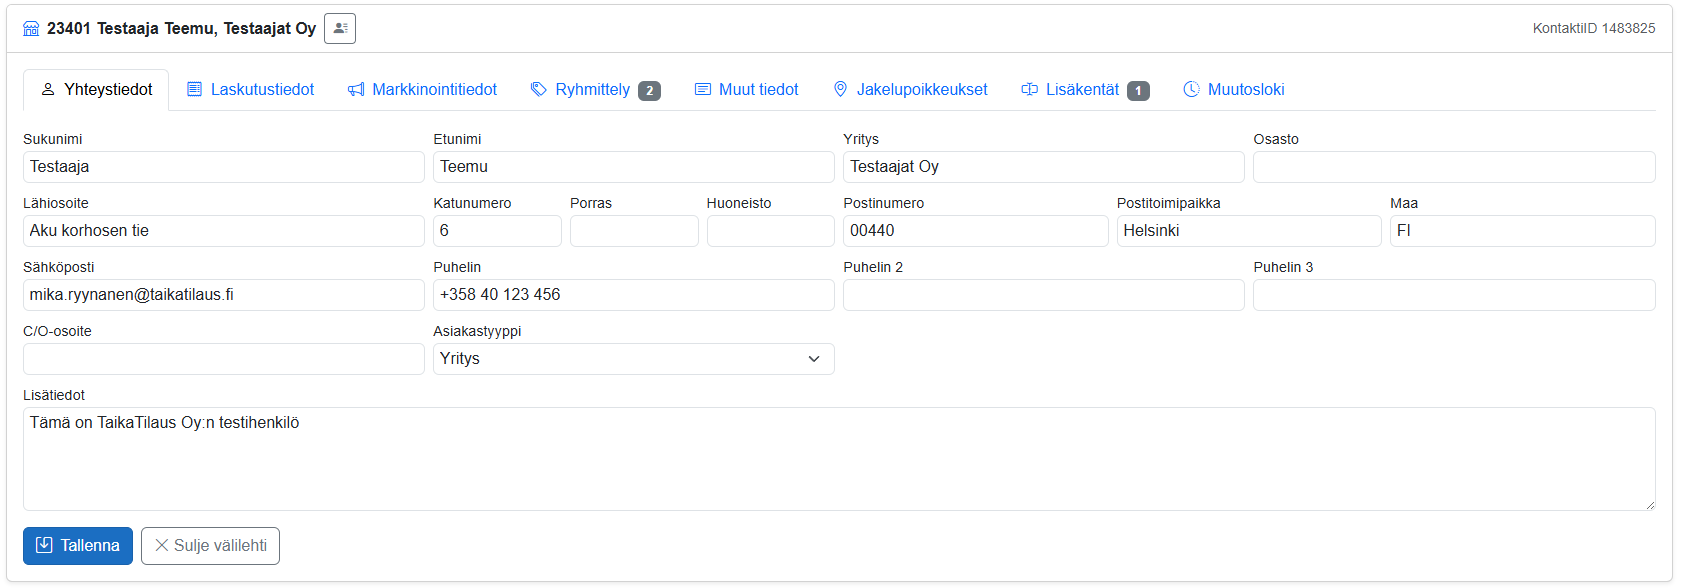
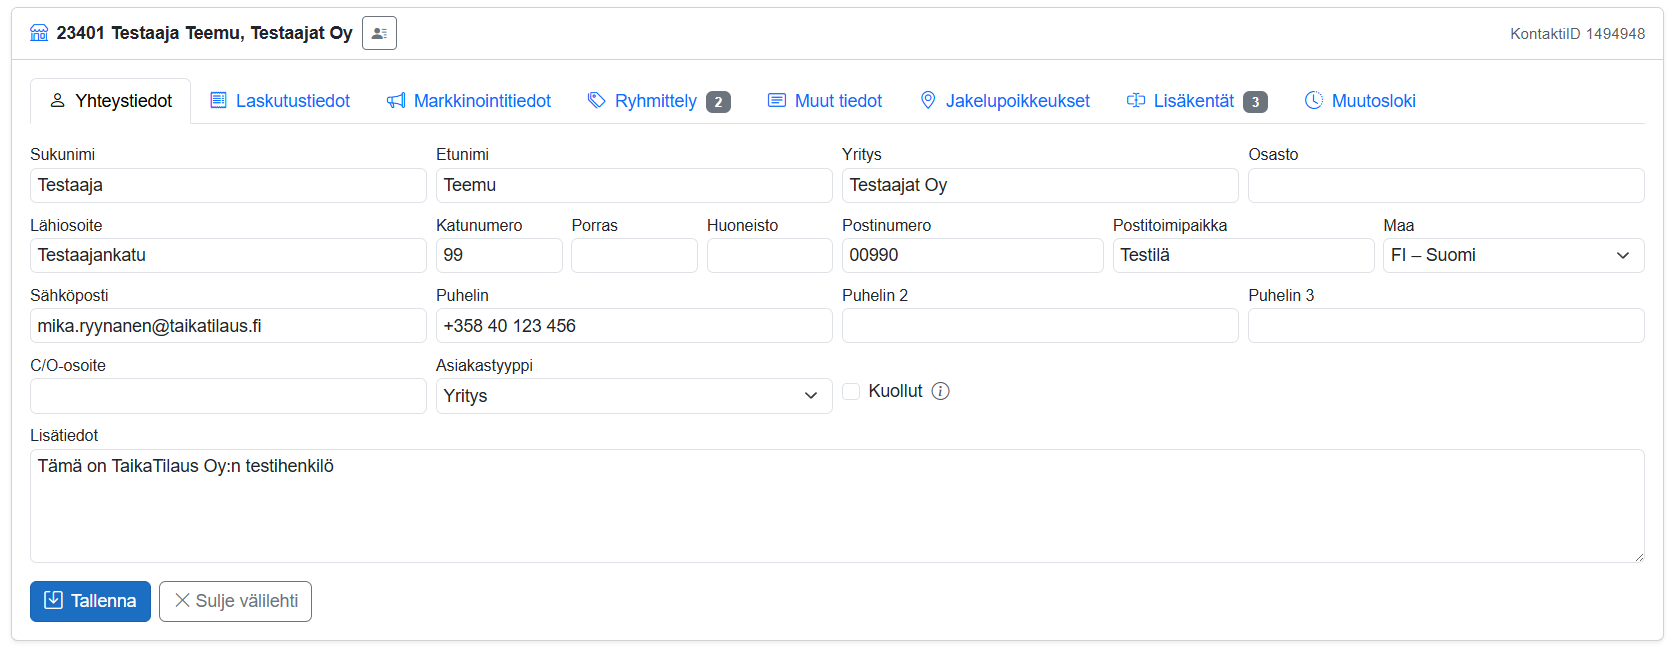
kuollut merkintä ja huomioita

diff --git a/docs/uusi_versio/Asiakkaat/asiakaskortti.md b/docs/uusi_versio/Asiakkaat/asiakaskortti.md
@@ -47,6 +47,7 @@ Asiakkaan tiedot on jaettu välilehdille:
 | **Puhelin, Puhelin 2 ja Puhelin 3** | Asiakkaan puhelinnumerot. |
 | **C/O-osoite** | Osoitetta täydentävä c/o-tieto. |
 | **Asiakastyyppi** | Asiakkaan tyyppi, esimerkiksi henkilö, yritys tai yhteisö. Käytettävissä olevat asiakastyypit määritetään järjestelmän asetuksissa. |
+| **Kuollut** | Aktivoimalla kentän, asiakas merkitään kuolleeksi. |
 | **Lisätiedot** | Vapaamuotoiset lisätiedot asiakkaasta. |
 
 Muokkaa tarvittavia tietoja ja napsauta **Tallenna**.

diff --git a/docs/uusi_versio/Raportit/asiakasyhteenvedot.md b/docs/uusi_versio/Raportit/asiakasyhteenvedot.md
@@ -1,6 +1,12 @@
 ---
 sidebar_position: 3
-description: Asiakasyhteenvedot.
+description: Asiakasyhteenvedot — Ei vielä käytettävissä.
 ---
 
 # Asiakasyhteenvedot
+
+:::info Ei vielä käytettävissä
+
+Asiakasyhteenvedot ei ole vielä käytettävissä TaikaTilaus 3.0:ssa. Sovelluksen näkymä on toistaiseksi paikkamerkki.
+
+:::

diff --git a/docs/uusi_versio/Etusivu/etusivu.md b/docs/uusi_versio/Etusivu/etusivu.md
@@ -24,6 +24,12 @@ Sivun yläreunan päävalikosta pääset järjestelmän eri osioihin:
 
 Valikon nimen vieressä oleva nuoli avaa alavalikon.
 
+:::info Huomio
+
+Osa valikoissa näkyvistä toiminnoista on vielä keskeneräisiä.
+
+:::
+
 ![Etusivun päävalikko ja sen osiot](/img/versio2/paavalikko.png)
 
 ### Oikean reunan ikonit
